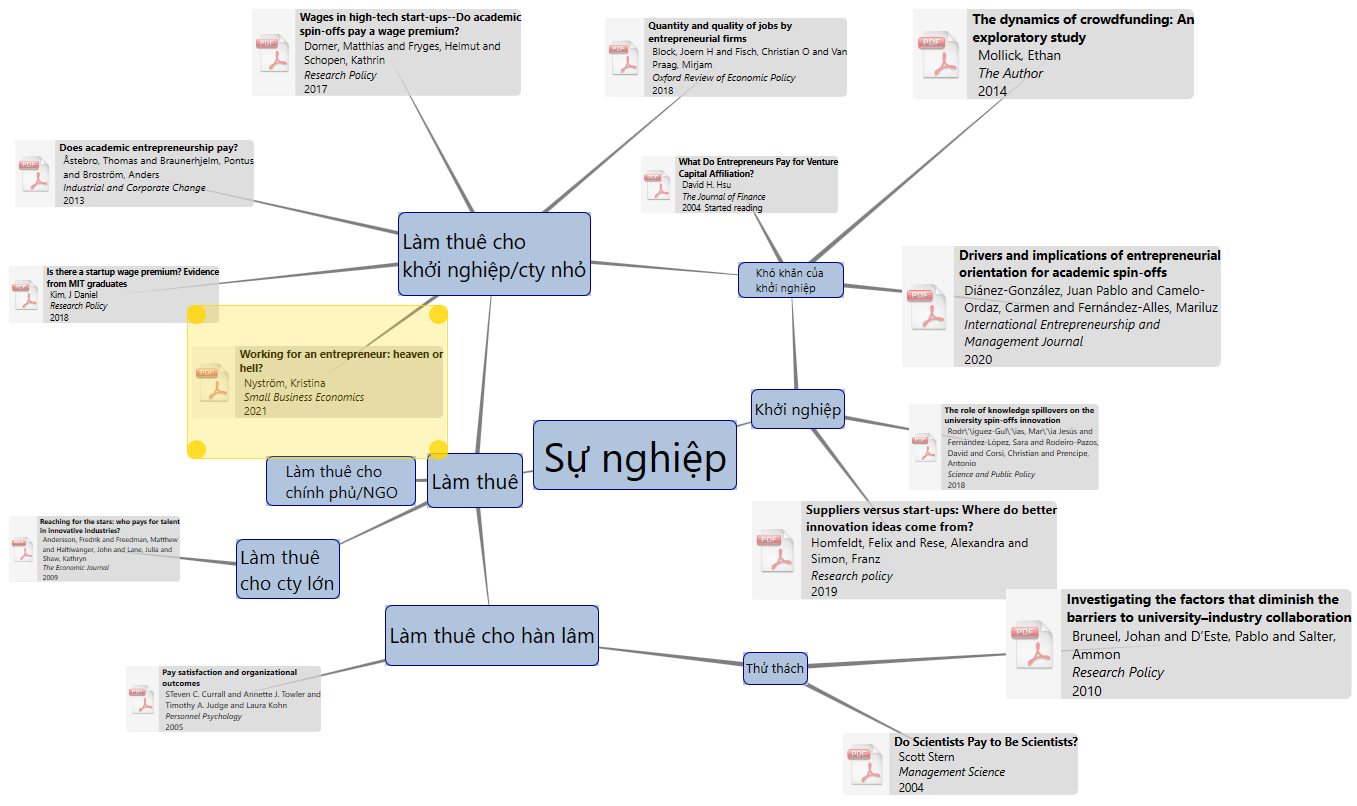
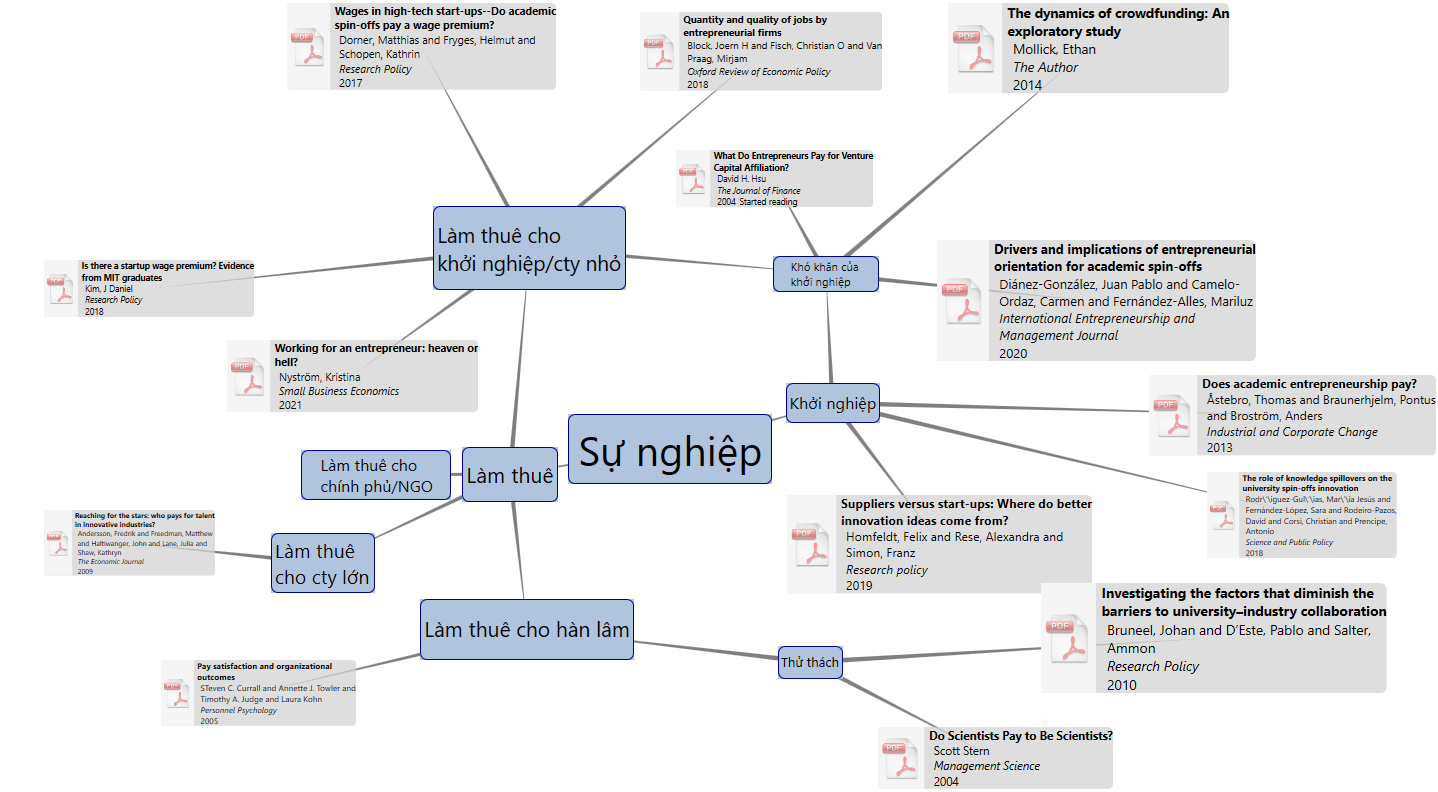
[1;36m"Things work out best for those who make the best of how things work out."[1;m 		[1;35m--John Wooden[1;m[0m

diff --git a/assets/js/lunrsearchengine.js b/assets/js/lunrsearchengine.js
@@ -83,7 +83,7 @@ var documents = [{
     "id": 16,
     "url": "https://wanted2.github.io/pay/",
     "title": "Cán cân thu nhập: hàn lâm, khởi nghiệp và công ty",
-    "body": "2022/01/10 -  Cộng đồng mạng xã hội hiện đại gần đây có nổ ra tranh cãi về câu nói Có làm thì mới có ăn, cái loại không làm mà lại muốn có ăn thì chỉ có ăn … của tác giả Huấn Hoa Hồng. Những bô lão của cộng đồng hàm lâm như Giáo sư kiêm lính thủy đánh bạc Tiến Bịp cũng nhanh chóng xuất bản các papers để phản bác Huấn. Nghe thì chả có vẻ liên quan gì nhưng những chân lý do các vị giáo sư “tự phong” của cộng đồng mạng này cũng có sức nặng nhất định: Có làm thì mới có ăn thì đã là nguyên lý của lao động sản xuất có hệ thống trong xã hội. Nhưng vấn đề là làm gì và làm thế nào?Định hướng nghề nghiệp chính là một khâu quan trọng giúp các bạn trẻ phát triển sự nghiệp. Tất nhiên ngoài hai vị “giáo sư” kể trên thì còn vô số học thuyết và lý thuyết trong cái mảng này với hàng ngàn cuốn sách đủ thể loại của các tác giả trên thế giới để định hướng các bạn trẻ. Nhưng thôi chúng ta cứ đưa ra góc nhìn thiết thực nhất với mọi người lao động bình thường: thu nhập trước đã nhé! Lựa chọn sự nghiệpTất nhiên mức lương tối thiểu vùng miền là đã có quy định, mức đóng các khoản như bảo hiểm, thuế thu nhập cá nhân thì cũng đã có quy định công thức, cứ bỏ vào mấy cái Excel là nó tính rẹc phát ra ngay nên chúng ta cũng không quan tâm sâu tới những vấn đề đó mà chỉ chú ý là lương cao thì trách nhiệm thuế sẽ cao theo là thiết kế của khá nhiều hệ thống thuế TNCN của nhiều nước. Vậy giờ có mấy con đường?Xin hãy nhìn vào biểu đồ bên dưới: hầu như chỉ có 2 nhánh  Làm thuê: thì lại phân nhánh làm 4 con đường con     Làm cho hàn lâm như làm giảng viên, các vị trí trong trường đại học, nghiên cứu tại viện, …   Làm cho chính phủ/NGO. Tuy nhiên hướng này hơi khó vì ít vị trí nên trong bài điều tra này xin phép không bàn về con đường này.    Làm cho công ty lớn. Đây là hướng chủ đạo của mọi anh em không đi hai con đường trên: kiếm doanh nghiệp kiểu quốc doanh, phúc lợi dồi dào ổn định để mưu cầu sự nghiệp … an bài.    Làm cho công ty nhỏ/ khởi nghiệp. Đây là con đường mạo hiểm bởi không biết nó sập lúc nào. Chúng ta sẽ đi sâu vào sau, nhưng nhìn chung cty nhỏ hay khởi nghiệp vốn không thể lớn như công ty lớn. Có một dạng thú vị là các công ty khởi nghiệp xuất phát từ 1 nghiên cứu trong academics mà tôi sẽ bàn trong bài viết này.     Khởi nghiệp: tức là không làm thuê cho người khác mà tự mở ra mà làm lấy. Làm thuêThực ra mấy cái mảng này thì cũng có nhiều surveys có sẵn rồi và với các bạn trẻ cũng chỉ quan trọng là nhìn thấy mấy con số đáng tin cậy để quyết định hướng đi sự nghiệp nên tôi cứ phang thẳng các bài survey có nhiều citations vào nhé. Làm cho hàn lâm: Làm cho công ty lớn: Làm cho khởi nghiệp và công ty nhỏ vừa: Hướng đi mang tính entrepreneur này có vẻ mạo hiểm với cả chủ lẫn tớ: công ty chả biết lúc nào “sập”?Một bài survey dưới góc độ employee xem tại sao họ lại chọn hướng đi làm thuê cho khởi nghiệp mà tôi thích là bài của Nystrӧm [13] ngay vừa 2021 rồi. Hiểm nguy đi cùng khởi nghiệp sẽ bao gồm:  Great uncertainty tức là bấp bênh, lúc có việc, lúc rảnh thôi rồi.  Low wages lương thấp tẹt vì bản thân khởi nghiệp cũng đang chờ vốn.  Và khả năng công ty không sống sót. Có suy thoái kiểu 2008 hay dịch Covid 19 là một loạt chết trắng bụng!Vậy những tên dở người (insane) nào lại đi làm cho khởi nghiệp và các công ty nhỏ? Đầu tiên chúng ta cũng cần hiểu quy trình tuyển dụng dù công ty nhỏ hay lớn thì cũng sẽ đại loại là trước khi hai bên bắt tay nhau thì phải có một quá trình matching. Vấn đề là employer cũng không có ngay được thông tin về skill cũng như abilities của employee và ngược lại employee cũng không biết được là cái khởi nghiệp này nó có skill và tiềm năng ra sao. Cái này trong lĩnh vực này gọi là information assymmetry, tức là sự thiếu thông tin về nhau của hai bên khi tiếp xúc. Tất nhiên khi hai bên đang thiếu thông tin về nhau như vậy, việc tìm điểm cân bằng equibilirum là cần thiết. Theo [13] thì trong một survey ở labor market Thụy Điển thì sinh viên đại học bên đó đặt các yếu tố sau lên đầu khi tìm việc:  Lương khởi điểm cao Cơ hội phát triển bản thân và có training Cơ hội làm việc lâu dài Môi trường làm việc năng động và phát triển tốt. Một điểm thú vị [13] là trong những người làm việc R&amp;D (cả chuyển việc lẫn mới tốt nghiệp) thì yếu tố quan trọng nhất với họ không phải lương hay job security mà là independence và responsibilty (sự độc lập và trách nhiệm). Tức là lương cao và chuyện không hợp hoặc công ty chết thì nhảy việc thì không quan trọng với người làm R&amp;D, mà quan trọng với họ là được làm việc độc lập (được làm chủ nghiên cứu của mình và toàn quyền quyết định) và trách nhiệm rõ ràng. Ngoài việc lương bèo thì những nguy cơ tiềm ẩn như làm việc nhiều giờ, stress cũng dai dẳng với các nhân viên của công ty khởi nghiệp. Và Nystrӧm cũng chỉ ra kết quả thú vị: hầu như khởi nghiệp và cty vừa nhỏ chỉ thuê được các vị trí yếu hơn so với các công ty lớn. Khởi nghiệpKết luậnTài liệu tham khảoHsu, D. H. (2004). What do entrepreneurs pay for venture capital affiliation? The Journal of Finance, 59(4), 1805–1844. Mollick, E. (2014). The dynamics of crowdfunding: An exploratory study. Journal of Business Venturing, 29(1), 1–16. Bruneel, J. , d’Este, P. , &amp; Salter, A. (2010). Investigating the factors that diminish the barriers to university–industry collaboration. Research Policy, 39(7), 858–868. Stern, S. (2004). Do scientists pay to be scientists? Management Science, 50(6), 835–853. Currall, S. C. , Towler, A. J. , Judge, T. A. , &amp; Kohn, L. (2005). Pay satisfaction and organizational outcomes. Personnel Psychology, 58(3), 613–640. Åstebro, T. , Braunerhjelm, P. , &amp; Broström, A. (2013). Does academic entrepreneurship pay? Industrial and Corporate Change, 22(1), 281–311. Dorner, M. , Fryges, H. , &amp; Schopen, K. (2017). Wages in high-tech start-ups–Do academic spin-offs pay a wage premium? Research Policy, 46(1), 1–18. Kim, J. D. (2018). Is there a startup wage premium? Evidence from MIT graduates. Research Policy, 47(3), 637–649. Homfeldt, F. , Rese, A. , &amp; Simon, F. (2019). Suppliers versus start-ups: Where do better innovation ideas come from? Research Policy, 48(7), 1738–1757. Block, J. H. , Fisch, C. O. , &amp; Van Praag, M. (2018). Quantity and quality of jobs by entrepreneurial firms. Oxford Review of Economic Policy, 34(4), 565–583. Rodrı́guez-Gulı́as Marı́a Jesús, Fernández-López, S. , Rodeiro-Pazos, D. , Corsi, C. , &amp; Prencipe, A. (2018). The role of knowledge spillovers on the university spin-offs innovation. Science and Public Policy, 45(6), 875–883. Diánez-González, J. P. , Camelo-Ordaz, C. , &amp; Fernández-Alles, M. (2021). Drivers and implications of entrepreneurial orientation for academic spin-offs. International Entrepreneurship and Management Journal, 17(2), 1007–1035. Nyström, K. (2021). Working for an entrepreneur: heaven or hell? Small Business Economics, 56(2), 919–931. Andersson, F. , Freedman, M. , Haltiwanger, J. , Lane, J. , &amp; Shaw, K. (2009). Reaching for the stars: who pays for talent in innovative industries? The Economic Journal, 119(538), F308–F332. "
+    "body": "2022/01/10 -  Cộng đồng mạng xã hội hiện đại gần đây có nổ ra tranh cãi về câu nói Có làm thì mới có ăn, cái loại không làm mà lại muốn có ăn thì chỉ có ăn … của tác giả Huấn Hoa Hồng. Những bô lão của cộng đồng hàm lâm như Giáo sư kiêm lính thủy đánh bạc Tiến Bịp cũng nhanh chóng xuất bản các papers để phản bác Huấn. Nghe thì chả có vẻ liên quan gì nhưng những chân lý do các vị giáo sư “tự phong” của cộng đồng mạng này cũng có sức nặng nhất định: Có làm thì mới có ăn thì đã là nguyên lý của lao động sản xuất có hệ thống trong xã hội. Nhưng vấn đề là làm gì và làm thế nào?Định hướng nghề nghiệp chính là một khâu quan trọng giúp các bạn trẻ phát triển sự nghiệp. Tất nhiên ngoài hai vị “giáo sư” kể trên thì còn vô số học thuyết và lý thuyết trong cái mảng này với hàng ngàn cuốn sách đủ thể loại của các tác giả trên thế giới để định hướng các bạn trẻ. Nhưng thôi chúng ta cứ đưa ra góc nhìn thiết thực nhất với mọi người lao động bình thường: thu nhập trước đã nhé! Lựa chọn sự nghiệpTất nhiên mức lương tối thiểu vùng miền là đã có quy định, mức đóng các khoản như bảo hiểm, thuế thu nhập cá nhân thì cũng đã có quy định công thức, cứ bỏ vào mấy cái Excel là nó tính rẹc phát ra ngay nên chúng ta cũng không quan tâm sâu tới những vấn đề đó mà chỉ chú ý là lương cao thì trách nhiệm thuế sẽ cao theo là thiết kế của khá nhiều hệ thống thuế TNCN của nhiều nước. Vậy giờ có mấy con đường?Xin hãy nhìn vào biểu đồ bên dưới: hầu như chỉ có 2 nhánh  Làm thuê: thì lại phân nhánh làm 4 con đường con     Làm cho hàn lâm như làm giảng viên, các vị trí trong trường đại học, nghiên cứu tại viện, …   Làm cho chính phủ/NGO. Tuy nhiên hướng này hơi khó vì ít vị trí nên trong bài điều tra này xin phép không bàn về con đường này.    Làm cho công ty lớn. Đây là hướng chủ đạo của mọi anh em không đi hai con đường trên: kiếm doanh nghiệp kiểu quốc doanh, phúc lợi dồi dào ổn định để mưu cầu sự nghiệp … an bài.    Làm cho công ty nhỏ/ khởi nghiệp. Đây là con đường mạo hiểm bởi không biết nó sập lúc nào. Chúng ta sẽ đi sâu vào sau, nhưng nhìn chung cty nhỏ hay khởi nghiệp vốn không thể lớn như công ty lớn. Có một dạng thú vị là các công ty khởi nghiệp xuất phát từ 1 nghiên cứu trong academics mà tôi sẽ bàn trong bài viết này.     Khởi nghiệp: tức là không làm thuê cho người khác mà tự mở ra mà làm lấy. Làm thuêThực ra mấy cái mảng này thì cũng có nhiều surveys có sẵn rồi và với các bạn trẻ cũng chỉ quan trọng là nhìn thấy mấy con số đáng tin cậy để quyết định hướng đi sự nghiệp nên tôi cứ phang thẳng các bài survey có nhiều citations vào nhé. Làm cho hàn lâm: Làm cho công ty lớn: Làm cho khởi nghiệp và công ty nhỏ vừa: Hướng đi mang tính entrepreneur này có vẻ mạo hiểm với cả chủ lẫn tớ: công ty chả biết lúc nào “sập”?Một bài survey dưới góc độ employee xem tại sao họ lại chọn hướng đi làm thuê cho khởi nghiệp mà tôi thích là bài của Nystrӧm [13] ngay vừa 2021 rồi. Hiểm nguy đi cùng khởi nghiệp sẽ bao gồm:  Great uncertainty tức là bấp bênh, lúc có việc, lúc rảnh thôi rồi.  Low wages lương thấp tẹt vì bản thân khởi nghiệp cũng đang chờ vốn.  Và khả năng công ty không sống sót. Có suy thoái kiểu 2008 hay dịch Covid 19 là một loạt chết trắng bụng!Vậy những tên dở người (insane) nào lại đi làm cho khởi nghiệp và các công ty nhỏ? Đầu tiên chúng ta cũng cần hiểu quy trình tuyển dụng dù công ty nhỏ hay lớn thì cũng sẽ đại loại là trước khi hai bên bắt tay nhau thì phải có một quá trình matching. Vấn đề là employer cũng không có ngay được thông tin về skill cũng như abilities của employee và ngược lại employee cũng không biết được là cái khởi nghiệp này nó có skill và tiềm năng ra sao. Cái này trong lĩnh vực này gọi là information assymmetry, tức là sự thiếu thông tin về nhau của hai bên khi tiếp xúc. Tất nhiên khi hai bên đang thiếu thông tin về nhau như vậy, việc tìm điểm cân bằng equibilirum là cần thiết. Theo [13] thì trong một survey ở labor market Thụy Điển thì sinh viên đại học bên đó đặt các yếu tố sau lên đầu khi tìm việc:  Lương khởi điểm cao Cơ hội phát triển bản thân và có training Cơ hội làm việc lâu dài Môi trường làm việc năng động và phát triển tốt. Một điểm thú vị [13] là trong những người làm việc R&amp;D (cả chuyển việc lẫn mới tốt nghiệp) thì yếu tố quan trọng nhất với họ không phải lương hay job security mà là independence và responsibilty (sự độc lập và trách nhiệm). Tức là lương cao và chuyện không hợp hoặc công ty chết thì nhảy việc thì không quan trọng với người làm R&amp;D, mà quan trọng với họ là được làm việc độc lập (được làm chủ nghiên cứu của mình và toàn quyền quyết định) và trách nhiệm rõ ràng. Ngoài việc lương bèo thì những nguy cơ tiềm ẩn như làm việc nhiều giờ, stress cũng dai dẳng với các nhân viên của công ty khởi nghiệp. Và Nystrӧm cũng chỉ ra kết quả thú vị: hầu như khởi nghiệp và cty vừa nhỏ chỉ thuê được các vị trí yếu hơn so với các công ty lớn. Doner và cộng sự [7] cũng nghiên cứu về lương khởi nghiệp có thể trả nhưng tập trung vào academics spin-offs tức là khởi nghiệp xuất phát từ academics. Những nhà sáng lập xuất thân từ academics hoặc từ 1 nghiên cứu nào đó trong academics. Câu hỏi nghiên cứu ở đây là liệu spin-offs có sẵn sàng trả cao cho nhân viên không?Các tác giả tập trung vào bộ dữ liệu spin-offs ở Đức và thật thú vị sau khi họ làm mấy cái regression test linh tinh và đưa ra kết quả cũng không mới lắm: spin-offs dù nhận vốn academics (có thể dồi dào hay không biết) nhưng cũng không trả cao đâu!Họ cũng chỉ ra rằng một nhận định cũ rằng spin-offs có tốc độ mở rộng quy mô nhân sự cao hơn các khởi nghiệp khác là sai vì số liệu của họ cũng không chỉ ra significance nào. Mất công làm một đống regression tests mà kết quả là lương cũng không cao hơn là bao thì quả cũng của đáng tội! Khởi nghiệpKết luậnTài liệu tham khảoHsu, D. H. (2004). What do entrepreneurs pay for venture capital affiliation? The Journal of Finance, 59(4), 1805–1844. Mollick, E. (2014). The dynamics of crowdfunding: An exploratory study. Journal of Business Venturing, 29(1), 1–16. Bruneel, J. , d’Este, P. , &amp; Salter, A. (2010). Investigating the factors that diminish the barriers to university–industry collaboration. Research Policy, 39(7), 858–868. Stern, S. (2004). Do scientists pay to be scientists? Management Science, 50(6), 835–853. Currall, S. C. , Towler, A. J. , Judge, T. A. , &amp; Kohn, L. (2005). Pay satisfaction and organizational outcomes. Personnel Psychology, 58(3), 613–640. Åstebro, T. , Braunerhjelm, P. , &amp; Broström, A. (2013). Does academic entrepreneurship pay? Industrial and Corporate Change, 22(1), 281–311. Dorner, M. , Fryges, H. , &amp; Schopen, K. (2017). Wages in high-tech start-ups–Do academic spin-offs pay a wage premium? Research Policy, 46(1), 1–18. Kim, J. D. (2018). Is there a startup wage premium? Evidence from MIT graduates. Research Policy, 47(3), 637–649. Homfeldt, F. , Rese, A. , &amp; Simon, F. (2019). Suppliers versus start-ups: Where do better innovation ideas come from? Research Policy, 48(7), 1738–1757. Block, J. H. , Fisch, C. O. , &amp; Van Praag, M. (2018). Quantity and quality of jobs by entrepreneurial firms. Oxford Review of Economic Policy, 34(4), 565–583. Rodrı́guez-Gulı́as Marı́a Jesús, Fernández-López, S. , Rodeiro-Pazos, D. , Corsi, C. , &amp; Prencipe, A. (2018). The role of knowledge spillovers on the university spin-offs innovation. Science and Public Policy, 45(6), 875–883. Diánez-González, J. P. , Camelo-Ordaz, C. , &amp; Fernández-Alles, M. (2021). Drivers and implications of entrepreneurial orientation for academic spin-offs. International Entrepreneurship and Management Journal, 17(2), 1007–1035. Nyström, K. (2021). Working for an entrepreneur: heaven or hell? Small Business Economics, 56(2), 919–931. Andersson, F. , Freedman, M. , Haltiwanger, J. , Lane, J. , &amp; Shaw, K. (2009). Reaching for the stars: who pays for talent in innovative industries? The Economic Journal, 119(538), F308–F332. "
     }, {
     "id": 17,
     "url": "https://wanted2.github.io/rapidapi/",
